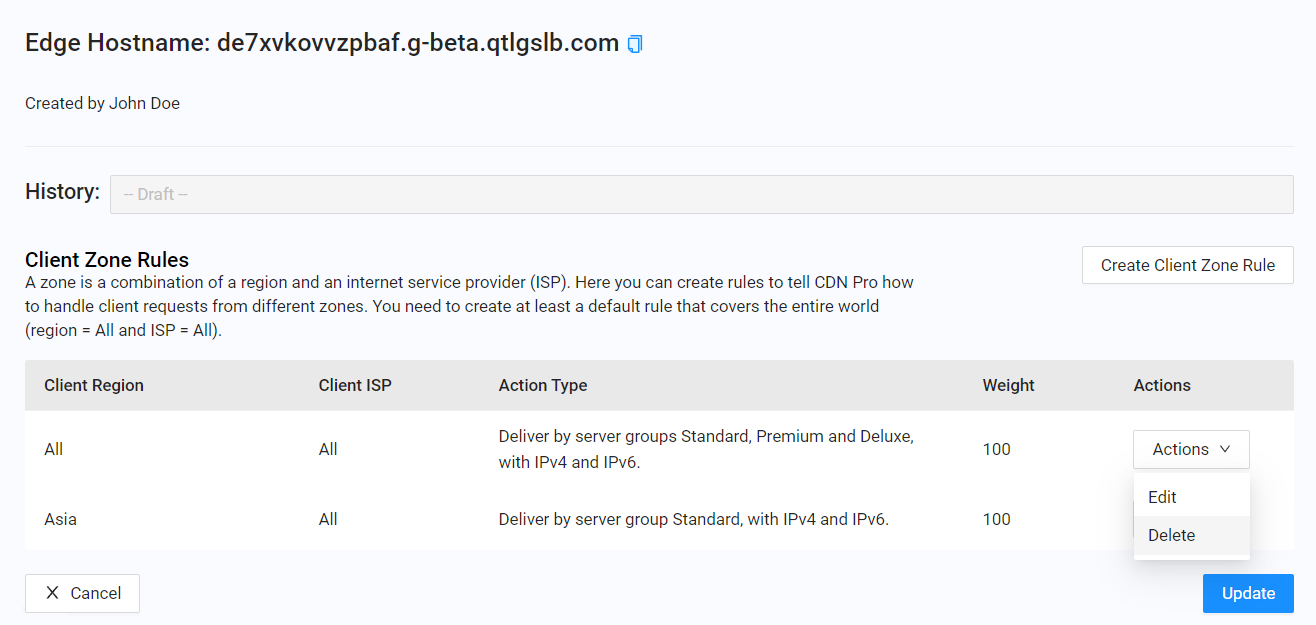
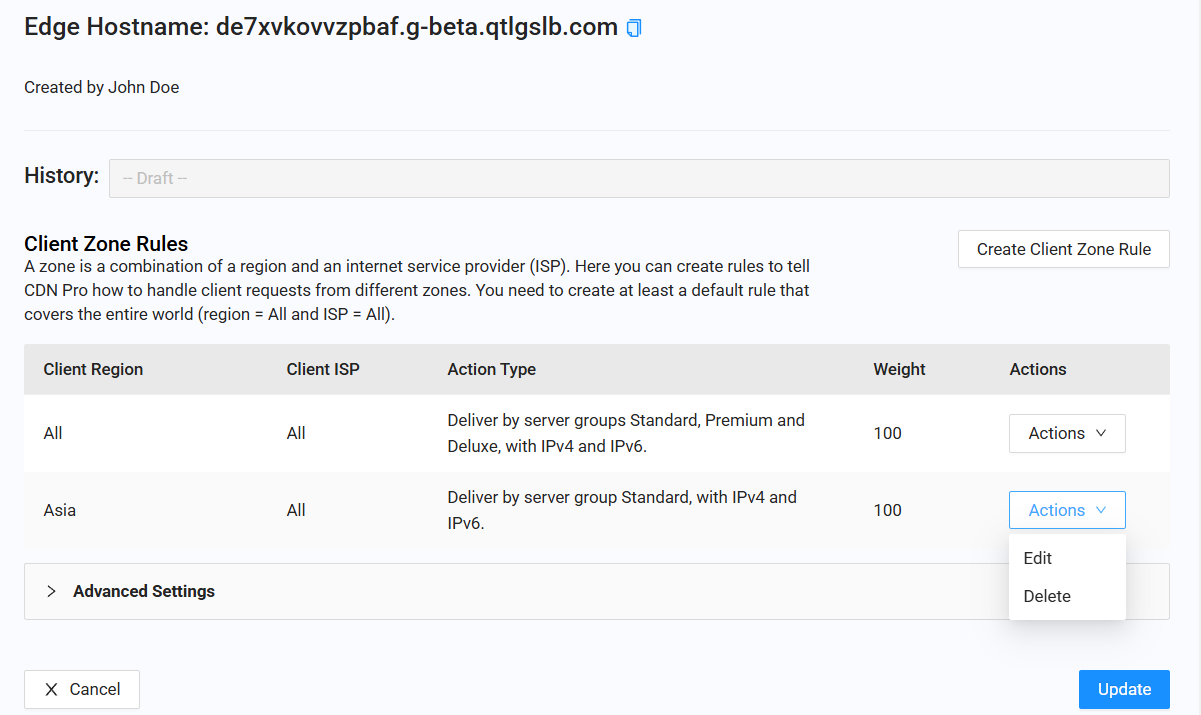
NGDOC-324 #comment added images and edited text to describe new fields

diff --git a/en/docs/portal/traffic-management/creating-edge-hostname.md b/en/docs/portal/traffic-management/creating-edge-hostname.md
@@ -33,11 +33,11 @@ An edge hostname in a CNAME record on your DNS system allows you to route end us
 | Redirect Target   | If <strong>Action Type</strong> is set to <strong>Redirect</strong>, specify an IP address or hostname to which CDN Pro will redirect your traffic. |
 | Weight | When a client zone has multiple rules defined, each of them will be used randomly with a probability proportional to the weight specified here. |
 
-5. If you would like to use a DNS record to advertise your HTTPS support and allow clients to negotiate the supported protocols faster, click Advanced Settings, and fill in the following fields:
+5. If you would like to use a DNS record to advertise your HTTPS support and allow clients to negotiate the supported protocols faster, click **Advanced Settings**, and fill in the following fields:
 
 | **Fields**        | **Description**                                                           |
 | ----------------- | ------------------------------------------------------------------------- |
-| Deliver By HTTPS  | Choose <i>on</i> to use a DNS record.  |
+| Deliver By HTTPS  | Choose <strong>on</strong> to use a DNS record.  |
 | Application Layer Protocol Negotiation (ALPN) | Choose the supported protocols.  |
 | Port              | Enter the port handling HTTPS requests. It defaults to 443. |
 | TTL               | Enter the number of seconds between 60 and 86400 indicating how long the DNS record is valid. | 

diff --git a/zh/docs/portal/traffic-management/creating-edge-hostname.md b/zh/docs/portal/traffic-management/creating-edge-hostname.md
@@ -33,11 +33,11 @@ An edge hostname in a CNAME record on your DNS system allows you to route end us
 | Redirect Target   | If <strong>Action Type</strong> is set to <strong>Redirect</strong>, specify an IP address or hostname to which CDN Pro will redirect your traffic. |
 | Weight | When a client zone has multiple rules defined, each of them will be used randomly with a probability proportional to the weight specified here. |
 
-5. If you would like to use a DNS record to advertise your HTTPS support and allow clients to negotiate the supported protocols faster, click Advanced Settings, and fill in the following fields:
+5. If you would like to use a DNS record to advertise your HTTPS support and allow clients to negotiate the supported protocols faster, click **Advanced Settings**, and fill in the following fields:
 
 | **Fields**        | **Description**                                                           |
 | ----------------- | ------------------------------------------------------------------------- |
-| Deliver By HTTPS  | Choose <i>on</i> to use a DNS record.  |
+| Deliver By HTTPS  | Choose <strong>on</strong> to use a DNS record.  |
 | Application Layer Protocol Negotiation (ALPN) | Choose the supported protocols.  |
 | Port              | Enter the port handling HTTPS requests. It defaults to 443. |
 | TTL               | Enter the number of seconds between 60 and 86400 indicating how long the DNS record is valid. | 

diff --git a/en/docs/portal/traffic-management/editing-edge-hostname.md b/en/docs/portal/traffic-management/editing-edge-hostname.md
@@ -44,7 +44,16 @@ The Edge Hostname form appears for creating, editing, and deleting client zone r
 
 **Note**: A default rule that covers all regions and all ISPs is always required. If you accidentally delete the default rule, the system will create one automatically.
 
-7. Click **Update**.
-8. When a message confirms that the edge hostname update was accepted, click **OK**. It can take a minute for the update to complete.
-9.  Click **Close** to return to the main page.
+7. To update use of a DNS record to advertise HTTPS upport, click **Advanced Settings**, and update the following fields:
+
+| **Fields**        | **Description**                                                           |
+| ----------------- | ------------------------------------------------------------------------- |
+| Deliver By HTTPS  | Choose <strong>on</strong> to use a DNS record.  |
+| Application Layer Protocol Negotiation (ALPN) | Choose the supported protocols.  |
+| Port              | Enter the port handling HTTPS requests. It defaults to 443. |
+| TTL               | Enter the number of seconds between 60 and 86400 indicating how long the DNS record is valid. | 
+
+8. Click **Update**.
+9. When a message confirms that the edge hostname update was accepted, click **OK**. It can take a minute for the update to complete.
+10.  Click **Close** to return to the main page.
 

diff --git a/zh/docs/portal/traffic-management/editing-edge-hostname.md b/zh/docs/portal/traffic-management/editing-edge-hostname.md
@@ -44,7 +44,15 @@ The Edge Hostname form appears for creating, editing, and deleting client zone r
 
 **Note**: A default rule that covers all regions and all ISPs is always required. If you accidentally delete the default rule, the system will create one automatically.
 
-7. Click **Update**.
-8. When a message confirms that the edge hostname update was accepted, click **OK**. It can take a minute for the update to complete.
-9.  Click **Close** to return to the main page.
+7. To update use of a DNS record to advertise HTTPS upport, click **Advanced Settings**, and update the following fields:
 
+| **Fields**        | **Description**                                                           |
+| ----------------- | ------------------------------------------------------------------------- |
+| Deliver By HTTPS  | Choose <strong>on</strong> to use a DNS record.  |
+| Application Layer Protocol Negotiation (ALPN) | Choose the supported protocols.  |
+| Port              | Enter the port handling HTTPS requests. It defaults to 443. |
+| TTL               | Enter the number of seconds between 60 and 86400 indicating how long the DNS record is valid. | 
+
+8. Click **Update**.
+9. When a message confirms that the edge hostname update was accepted, click **OK**. It can take a minute for the update to complete.
+10.  Click **Close** to return to the main page.
